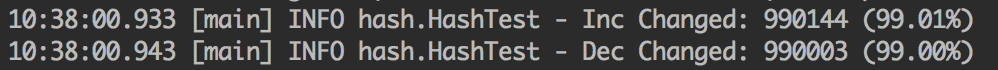
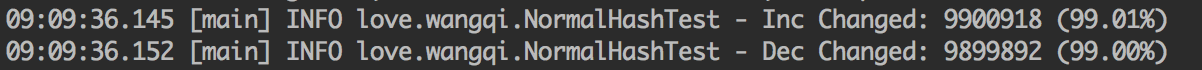
fix 一致性哈希算法

diff --git a/Java/一致性哈希算法.md b/Java/一致性哈希算法.md
@@ -16,8 +16,28 @@ date: 2018/08/17 10:06:00
 具体的实现如下：
 
 ```java
-public class Hash {
-    Logger logger = LoggerFactory.getLogger(Hash.class);
+public interface Hash {
+    /**
+     * 初始化节点
+     * @return
+     */
+    Hash initNodes();
+
+    /**
+     * 增加数据
+     * @param data
+     * @return
+     */
+    int add(String data);
+
+    /**
+     * 统计信息
+     */
+    void statistics();
+}
+
+public class NormalHash implements Hash {
+    Logger logger = LoggerFactory.getLogger(NormalHash.class);
 
     class Node {
         List<String> list;
@@ -39,18 +59,20 @@ public class Hash {
     private int nodeSize;
     private int total;
 
-    private void initNodes() {
+    @Override
+    public NormalHash initNodes() {
         for (int i = 0; i < nodes.length; i++) {
             nodes[i] = new Node();
         }
+        return this;
     }
 
-    public Hash(int nodeSize) {
+    public NormalHash(int nodeSize) {
         this.nodeSize = nodeSize;
         nodes = new Node[nodeSize];
-        initNodes();
     }
 
+    @Override
     public int add(String data) {
         long h = KetamaHash.calculate(data);
         int index = (int) (h % nodeSize);
@@ -59,6 +81,7 @@ public class Hash {
         return index;
     }
 
+    @Override
     public void statistics() {
         double ave = total / (nodeSize * 1.0);
         logger.info("Ave: {}", ave);
@@ -82,11 +105,11 @@ public void testDist() {
     int nodesSize = 100;
     final int SIZE = 100000;
     int[] nums = RandomNum.getRandomNum(SIZE * nodesSize);
-    Hash hash = new Hash(nodesSize);
+    Hash normalHash = new NormalHash(nodesSize).initNodes();
     for (int num : nums) {
-        hash.add(String.valueOf(num));
+        normalHash.add(String.valueOf(num));
     }
-    hash.statistics();
+    normalHash.statistics();
 }
 ```
 
@@ -109,17 +132,17 @@ public void testMigrate() {
 
     final int SIZE = 100000;
 
-    Hash hash = new Hash(nodesSize);
-    Hash hashInc = new Hash(nodesSizeInc);
-    Hash hashDec = new Hash(nodesSizeDec);
+    Hash normalHash = new NormalHash(nodesSize).initNodes();
+    Hash normalHashInc = new NormalHash(nodesSizeInc).initNodes();
+    Hash normalHashDec = new NormalHash(nodesSizeDec).initNodes();
 
     int changedInc = 0, changedDec = 0;
     int[] nums = RandomNum.getRandomNum(SIZE * nodesSize);
 
     for (int num : nums) {
-        int hashIndex = hash.add(String.valueOf(num));
-        int hashIncIndex = hashInc.add(String.valueOf(num));
-        int hashDecIndex = hashDec.add(String.valueOf(num));
+        int hashIndex = normalHash.add(String.valueOf(num));
+        int hashIncIndex = normalHashInc.add(String.valueOf(num));
+        int hashDecIndex = normalHashDec.add(String.valueOf(num));
 
         if (hashIndex != hashIncIndex) {
             changedInc++;
@@ -135,7 +158,6 @@ public void testMigrate() {
 ```
 
 ![hash-migrate](media/hash-migrate.png)
-
 
 可以看到，不管是增加一个node还是减少一个node，都需要迁移`99%`的数据。
 
@@ -177,7 +199,7 @@ public void testMigrate() {
 一致性哈希的实现代码如下：
 
 ```java
-public class ConsistHash {
+public class ConsistHash implements Hash {
     Logger logger = LoggerFactory.getLogger(ConsistHash.class);
 
     class Node {
@@ -207,6 +229,11 @@ public class ConsistHash {
     int nodeSize;
     int total;
 
+    public ConsistHash(int nodeSize) {
+        this.nodeSize = nodeSize;
+    }
+
+    @Override
     public ConsistHash initNodes() {
         for (int i = 0; i < nodeSize; i++) {
             Long nodeHash = KetamaHash.calculate(i);
@@ -250,11 +277,7 @@ public class ConsistHash {
         return hashNodeMap.get(hash);
     }
 
-
-    public ConsistHash(int nodeSize) {
-        this.nodeSize = nodeSize;
-    }
-
+    @Override
     public int add(String data) {
         Long m = KetamaHash.calculate(data);
         Node node = getNode(m);
@@ -263,6 +286,7 @@ public class ConsistHash {
         return node.getIndex();
     }
 
+    @Override
     public void statistics() {
         double ave = total / (nodeSize * 1.0);
         logger.info("Ave: {}", ave);
@@ -287,11 +311,11 @@ public void testMigrate() {
     int nodesSize = 100;
     int nodesSizeInc = nodesSize + 1;
     int nodesSizeDec = nodesSize - 1;
-    final int SIZE = 10000;
+    final int SIZE = 100000;
 
-    ConsistHash hash = new ConsistHash(nodesSize).initNodes();
-    ConsistHash hashInc = new ConsistHash(nodesSizeInc).initNodes();
-    ConsistHash hashDec = new ConsistHash(nodesSizeDec).initNodes();
+    Hash hash = new ConsistHash(nodesSize).initNodes();
+    Hash hashInc = new ConsistHash(nodesSizeInc).initNodes();
+    Hash hashDec = new ConsistHash(nodesSizeDec).initNodes();
 
     int changedInc = 0, changedDec = 0;
     int[] nums = RandomNum.getRandomNum(SIZE * nodesSize);
@@ -326,11 +350,11 @@ public void testDist() {
     int nodesSize = 100;
     final int SIZE = 100000;
     int[] nums = RandomNum.getRandomNum(SIZE * nodesSize);
-    ConsistHash hash = new ConsistHash(nodesSize).initNodes();
+    Hash consistHash = new ConsistHash(nodesSize).initNodes();
     for (int num : nums) {
-        hash.add(String.valueOf(num));
+        consistHash.add(String.valueOf(num));
     }
-    hash.statistics();
+    consistHash.statistics();
 }
 ```
 
@@ -362,7 +386,10 @@ public class VirtualConsistHash extends ConsistHash {
 
     private int virtualNodeSize;
 
-    private Random random = new Random();
+    public VirtualConsistHash(int nodeSize, int virtualNodeSize) {
+        super(nodeSize);
+        this.virtualNodeSize = virtualNodeSize;
+    }
 
     @Override
     public VirtualConsistHash initNodes() {
@@ -379,11 +406,6 @@ public class VirtualConsistHash extends ConsistHash {
         hashArray = hashNodeMap.keySet().toArray(hashArray);
         return this;
     }
-
-    public VirtualConsistHash(int nodeSize, int virtualNodeSize) {
-        super(nodeSize);
-        this.virtualNodeSize = virtualNodeSize;
-    }
 }
 ```
 
@@ -397,14 +419,14 @@ public void testDist() {
 
     int[] nums = RandomNum.getRandomNum(SIZE * nodesSize);
     logger.info("start");
-    VirtualConsistHash virtualConsistHash = new VirtualConsistHash(nodesSize, 100).initNodes();
+    Hash virtualConsistHash = new VirtualConsistHash(nodesSize, 100).initNodes();
     for (int num : nums) {
         virtualConsistHash.add(String.valueOf(num));
     }
     logger.info("VirtualConsistHash Statistics");
     virtualConsistHash.statistics();
 
-    ConsistHash consistHash = new ConsistHash(nodesSize).initNodes();
+    Hash consistHash = new ConsistHash(nodesSize).initNodes();
     for (int num : nums) {
         consistHash.add(String.valueOf(num));
     }
@@ -427,11 +449,11 @@ public void testMigrate() {
     int nodesSize = 100;
     int nodesSizeInc = nodesSize + 1;
     int nodesSizeDec = nodesSize - 1;
-    final int SIZE = 10000;
+    final int SIZE = 100000;
 
-    VirtualConsistHash hash = new VirtualConsistHash(nodesSize, 100).initNodes();
-    VirtualConsistHash hashInc = new VirtualConsistHash(nodesSizeInc, 100).initNodes();
-    VirtualConsistHash hashDec = new VirtualConsistHash(nodesSizeDec, 100).initNodes();
+    Hash hash = new VirtualConsistHash(nodesSize, 100).initNodes();
+    Hash hashInc = new VirtualConsistHash(nodesSizeInc, 100).initNodes();
+    Hash hashDec = new VirtualConsistHash(nodesSizeDec, 100).initNodes();
 
     int changedInc = 0, changedDec = 0;
     int[] nums = RandomNum.getRandomNum(SIZE * nodesSize);
